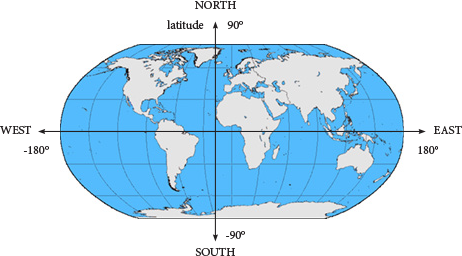
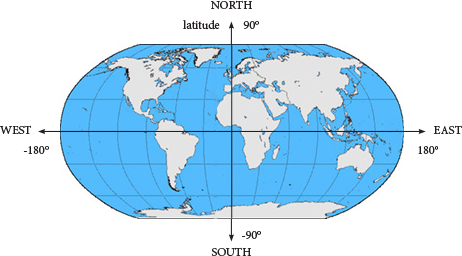
corrected world map

Changed region(s): [[0.3636, 0.0, 0.5758, 0.9375], [0.4242, 0.9688, 0.5455, 1.0]]

diff --git a/cur/programming/4-internet/2-gps-data/2-introgps.html b/cur/programming/4-internet/2-gps-data/2-introgps.html
@@ -18,7 +18,7 @@
         </div>
         
         <p>
-            Let's look closer at the first GPS coordinates in the Big Burgers data. The coordinates are <i>40.8,-73.94</i>. GPS coordinates describe a location on Earth by two numbers, a <strong>latitude</strong> (north-south) and a <strong>longitude</strong> (east-west).	
+            The first GPS coordinates in the Big Burgers data are <i>40.8,-73.94</i>. GPS coordinates describe a location on Earth by two numbers, a <strong>latitude</strong> (north-south) and a <strong>longitude</strong> (east-west).	
 <!--            <div class="sidenoteBig">
                 It's not necessary, but if you are interested, read this or another quick introduction on GPS coordinates: <a target="_blank" href="http://www.ehow.com/how_2209240_read-gps-coordinates.html">E-How Tutorial on GPS coordinates</a>. And/or, check out this <a href="https://www.youtube.com/watch?v=zQdIjwoi-u4" target="_blank">video on GPS &amp; Relativity</a>.  
                 <div class="todo">
@@ -26,7 +26,7 @@
                   <p>Yes, I suggest just flushing this entire yellow box (and the one below about Google Earth). First of all, we've agreed not to throw in links to third party web sites unless necessary. Second, that GPS tutorial will horribly confuse students because it says GPS coordinates are represented as degrees, minutes, and seconds of arc, whereas the coordinates we give students are just in degrees! And third, not so important for our purposes, but the text is inaccurate; it says that the Date Line is at 180 degrees, which is only approximately true. And, geez, you really want to throw general relativity at our students? --bh</p>
                 </div>
             </div> -->
-		</p>
+	</p>
 
 
         <div class="forYouToDo" id="first">
@@ -38,7 +38,7 @@
 
 <!--        <div class="sidenote">If you like this, check out <a href="https://www.google.com/earth/" target="_blank">Google Earth</a> outside of class.</div> -->
     	<img class="indent" src="/bjc-r/img/3-lists/Latitude_and_Longitude_of_the_Earth.svg" alt="Latitude and Longitude of the Earth" title="Latitude and Longitude of the Earth" />
-        <div class="endnote"> Positive values of latitude are north of the Equator, negative values are south. Positive values of longitude are east of the Prime Meridian (through London), negative values are west. </div>
+        <div class="endnote"> Positive values of latitude are north of the Equator, negative values are south. Positive values of longitude are east of the Prime Meridian, negative values are west. The Prime Meridian passes through London. </div>
         <p>Searching the Web for GPS coordinates can show the location on a map.</p>
         <p class="center"><a href="http://www.google.com/#q=40.8,-73.94" target="_blank">http://www.google.com/#q=40.8,-73.94</a></p>
 		 
@@ -50,9 +50,9 @@
             </ol>
 		</div>
 
-		<p>GPS coordinates are "backwards" compared to the way Snap<em>!</em> plots points. In Snap<em>!</em>, and in mathematics, the first coordinate is plotted horizontally, and the second vertically. However, this isn't the order GPS gives.</p>
+		<p>GPS coordinates are "backwards" compared to the way you've learned in mathematics. In mathematics, and in Snap<em>!</em>, the first coordinate tells you horizontal position, and the second tells you vertical position.  GPS coordinates are just different.</p>
 		<img class="indent noshadow" src="/bjc-r/img/4-internet/world-map.png" alt="longitude and latitude" title="longitude and latitude"/>	
-    	<div class="sidenote">Where is New York on the world map? What are its approximate coordinates?</div>
+<div class="sidenote">Where is New York on the world map? What are its approximate coordinates?</div>
 		<div class="todo">The Prime Meridian, 0 degrees longitude, is incorrectly marked here. It is on the map, vertically through London, but is too far west in this graphic.</div>
         <div class="sidenote">Original image from Steve Nova at the English language Wikipedia</div >
 	
